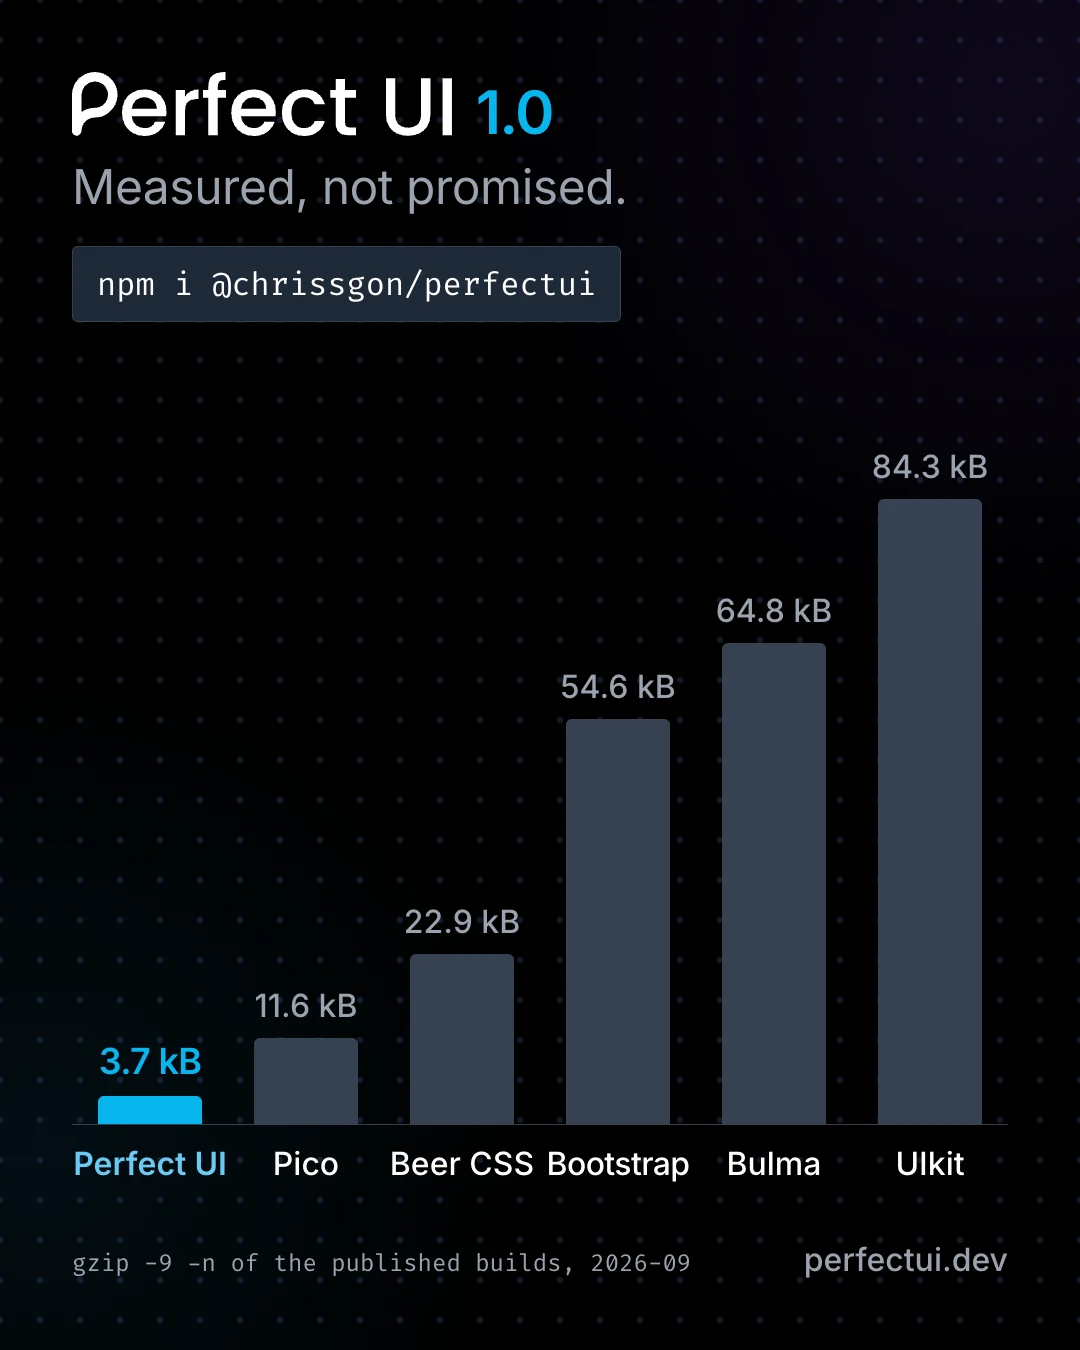
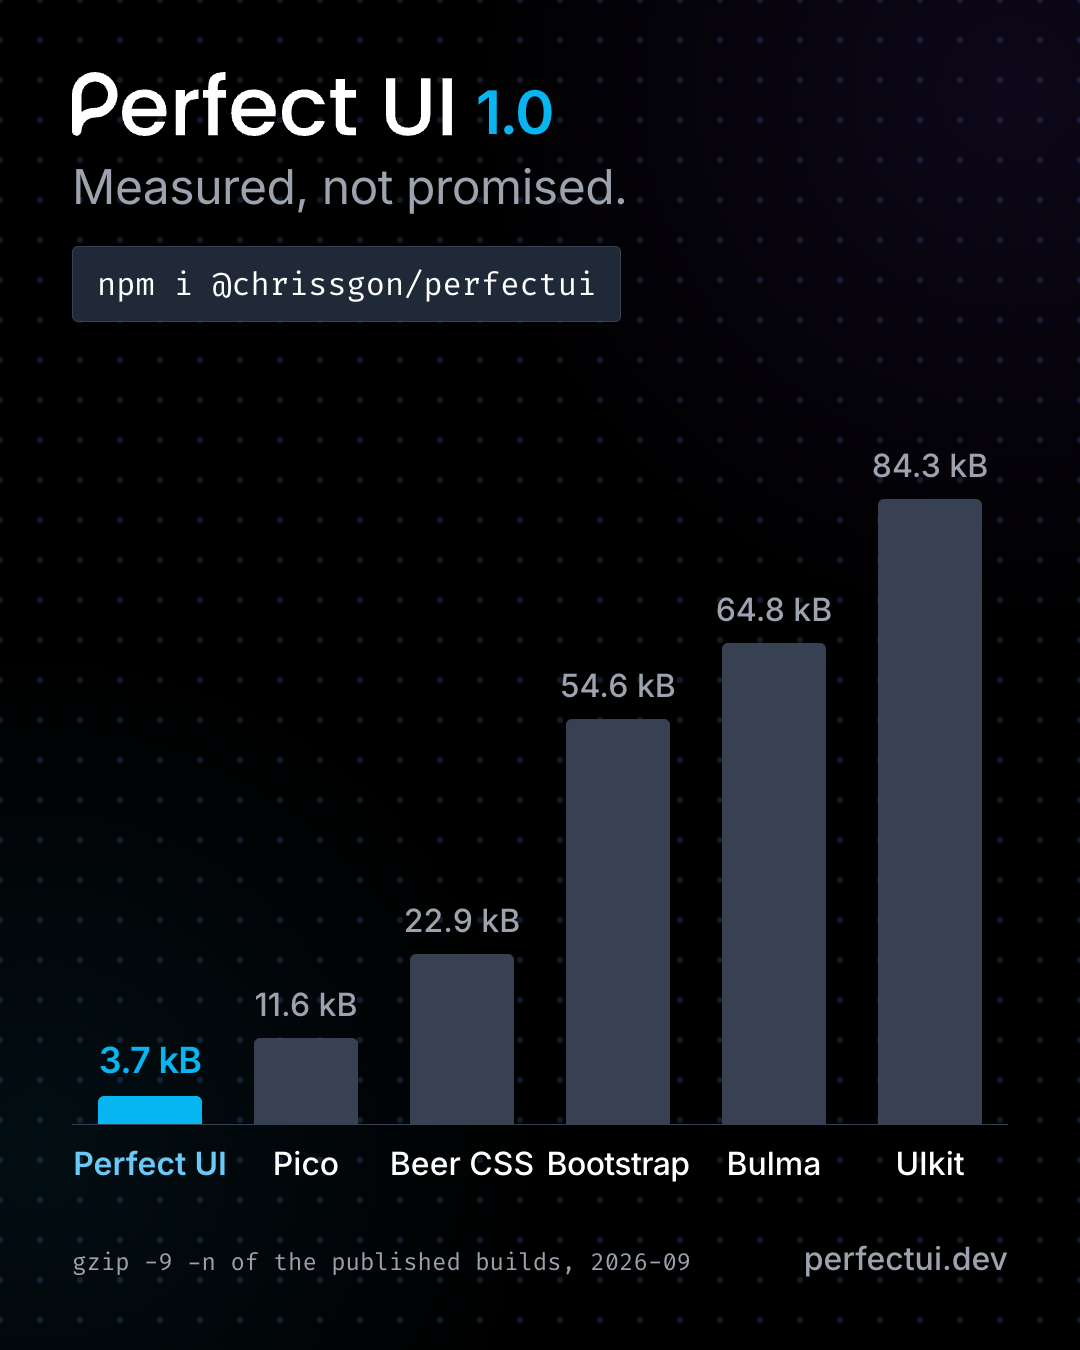
docs(marketing): final LinkedIn posts for 1.0 and their records
- The user's new images (PNG exports) for the teaser and the launch post.
- The teaser as published on 2026-09-28 ("últimas semanas" / "the last few weeks").
- The launch post without a link in the body; the user comments the link after it goes out.
- state.md: the cancelled jobs, the new approvals, and the teaser's publication.

diff --git a/docs/workbench/state.md b/docs/workbench/state.md
@@ -201,6 +201,14 @@
 
 ## Approvals
 
+- 2026-09-28: `git push -u origin docs/linkedin-posts-final` and a pull request to `main` with the final LinkedIn material (the user's new PNG images, the teaser as published, the launch text without the link) and these records; the user merges (user: "a PR é pra atualizar as docs, tudo bem nesse caso")
+
+- 2026-09-28: the launch post's link moved out of the text: the last line is now "👇 Link nos comentários / Link in the comments", and the user comments https://perfectui.dev after it goes out (reach studies of 2026 report less reach for LinkedIn posts with a link in the body). Job `linkedin-launch-1-0-0-b` cancelled before running; the new text scheduled as job `linkedin-launch-1-0-0-c` for 2026-09-29 09:00 America/Sao_Paulo, same image and idempotency key, text sha256 9518f454aed0… (user: "Tira o link e eu comento logo depois", then "Concordo")
+
+- 2026-09-28: the teaser's text changed ("últimos meses" → "últimas semanas", "the last months" → "the last few weeks"); job `linkedin-teaser-1-0-0-b` cancelled at 09:02 before running, and the new text scheduled as job `linkedin-teaser-1-0-0-c` for 2026-09-28 09:10 America/Sao_Paulo, same image and idempotency key, text sha256 11a5d2ce341f…; the launch job `linkedin-launch-1-0-0-b` is unchanged (user: "Aprovado, publique no mesmo horario"); executed 2026-09-28 09:10 (started 09:10:01, exit 0, finished 09:10:53), published as https://www.linkedin.com/feed/update/urn:li:share:7510310056685670401/, ledger entry `linkedin-teaser-1.0.0` status `published`
+
+- 2026-09-28: LinkedIn post B, the teaser, rescheduled as job `linkedin-teaser-1-0-0-b` for 2026-09-28 09:10 America/Sao_Paulo and post C, the launch, as job `linkedin-launch-1-0-0-b` for 2026-09-29 09:00, both through `providers/scheduler/launchd.py`, published by `providers/publisher/linkedin.py` with idempotency keys `linkedin-teaser-1.0.0` and `linkedin-launch-1.0.0`: texts `docs/marketing/posts/linkedin-teaser-1.0.0.txt` (sha256 3cd615945f2b…) and `docs/marketing/posts/linkedin-1.0.0.txt` (sha256 e7a127bcd64b…), images the user's new PNG exports `docs/marketing/posts/images/linkedin-teaser-1.0.0.png` (sha256 21cce7e5c9ee…) and `docs/marketing/posts/images/linkedin-1.0.0.png` (sha256 65ed7b1b0fb3…), public, on the user's profile; scheduled 09:01 (user: "Aprovado")
+
 - 2026-09-28: `git push -u origin fix/landing-total-size-version-chip` and a pull request to `main`: the hero and the size headline show the whole library (CSS and JavaScript, `{total.kB}`, 3.7 kB for 1.0.0), bars without JavaScript are one segment rounded at both ends, the version menu trigger is chip-sized, messaging and both LinkedIn texts updated to 3.7 kB (3,256 B CSS + 493 B JS, `gzip -9 -n` of 1.0.0); the user merges (user: "Abra a PR com os ajustes do perfectui-doc tambem")
 
 - 2026-09-28: LinkedIn posts B (teaser, job `linkedin-teaser-1-0-0`) and C (launch, job `linkedin-launch-1-0-0`) cancelled at 08:50, ten minutes before the teaser's run, because their texts said 3.2 kB of CSS; nothing was published. The approvals of 2026-09-26 for B and C no longer apply: the texts changed and the user is sending new images, so both need a new preview, approval and schedule (user: "Cancele os dois posts, vou te mandar as novas artes").
